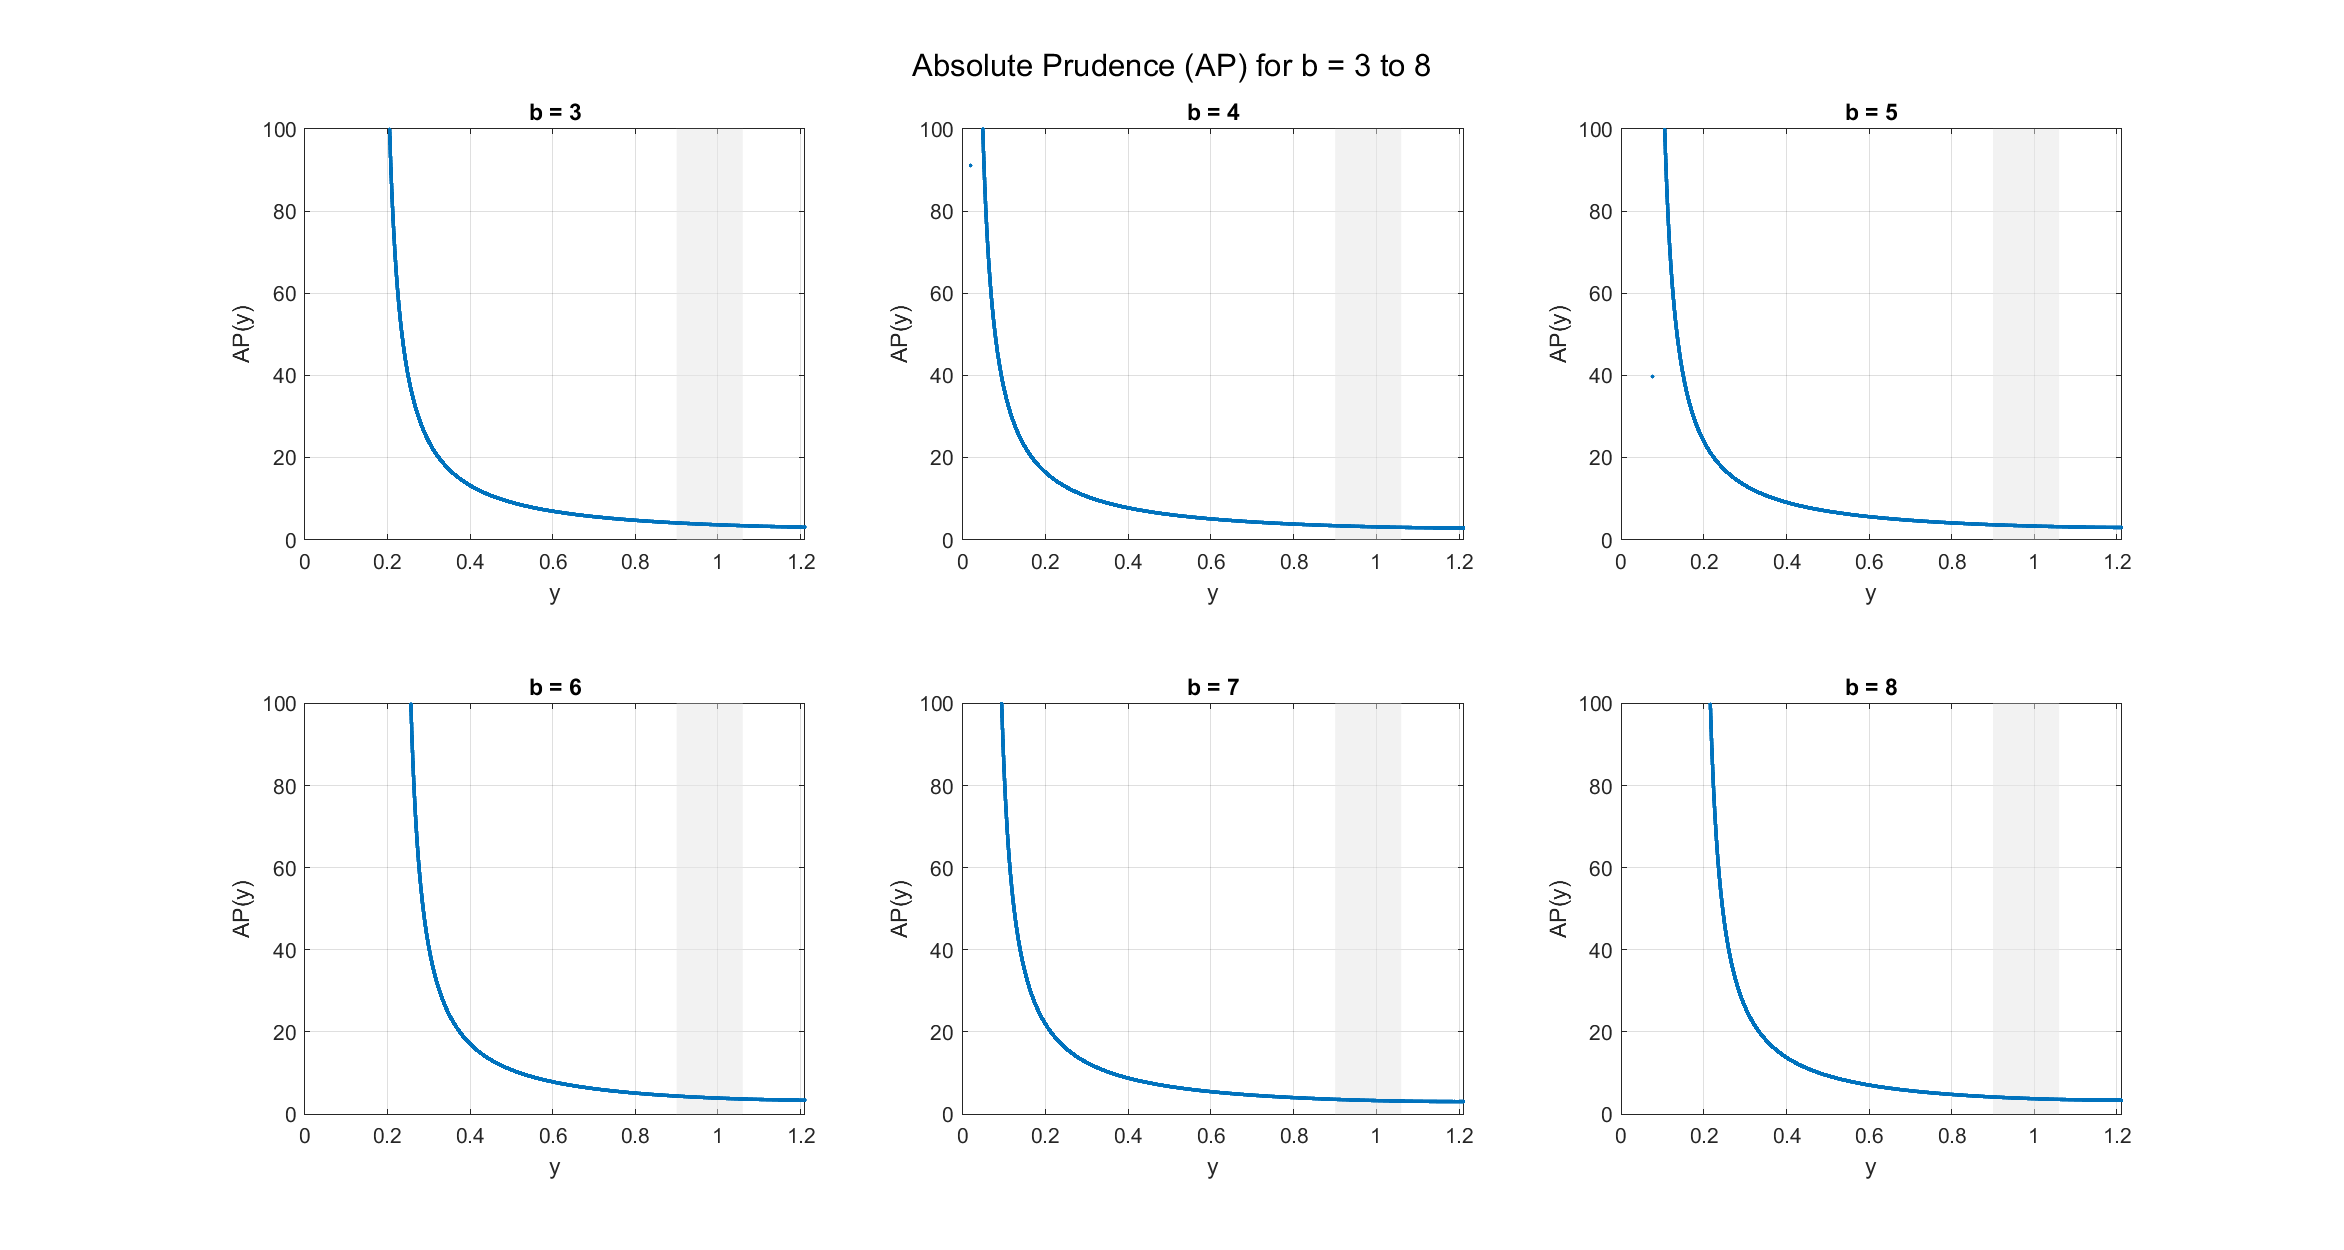
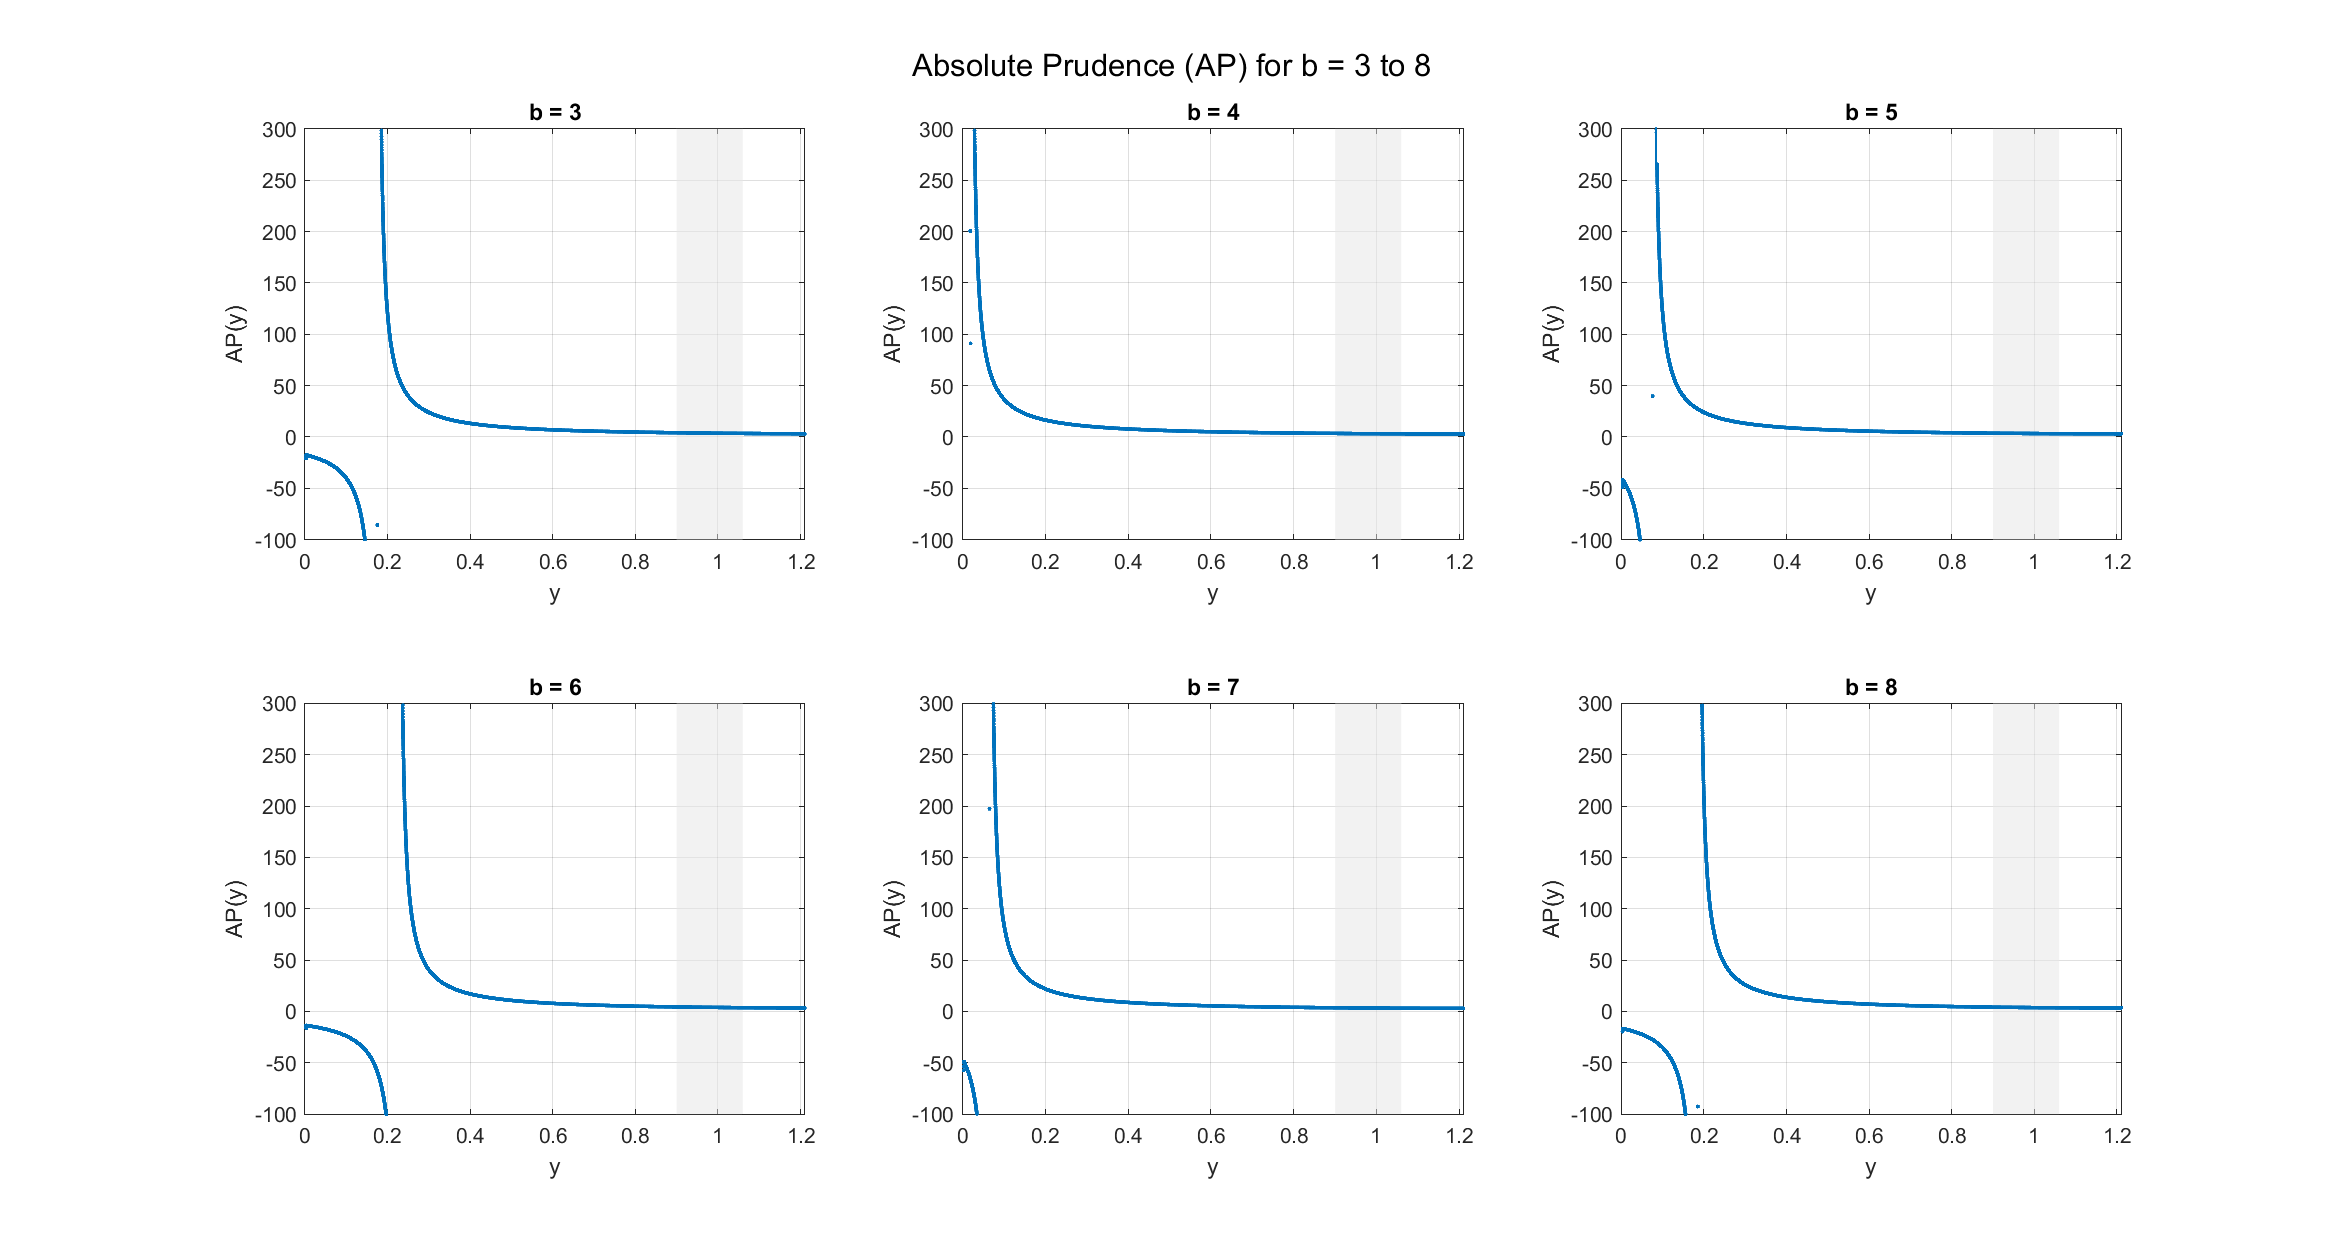
Adjust the y-axis range of the plot

diff --git a/04  風險指標（Risk Aversion and Prudence）/Procedure__Risk_Aversion_and_Prudence.m b/04  風險指標（Risk Aversion and Prudence）/Procedure__Risk_Aversion_and_Prudence.m
@@ -1,4 +1,5 @@
 clear; clc
+
 Path_MainFolder = 'D:\Google\我的雲端硬碟\學術｜研究與論文\論文著作\CDI Method';
 
 
@@ -177,7 +178,7 @@ clear filename
 
 %% Absolute Risk Aversion (ARA)
 
-y_min = 0;
+y_min = -100;
 y_max = 300;
 
 figure;
@@ -209,8 +210,8 @@ clear filename
 
 %% Relative Risk Aversion (RRA)
 
-y_min = 0;
-y_max = 10;
+y_min = -3;
+y_max = 12;
 
 figure;
 for idx = 1:6
@@ -241,8 +242,8 @@ clear filename
 
 %% Absolute Prudence (AP)
 
-y_min = 0;
-y_max = 100;
+y_min = -100;
+y_max = 300;
 
 figure;
 for idx = 1:6
@@ -273,8 +274,8 @@ clear filename
 
 %% Relative Prudence (RP)
 
-y_min = 0;
-y_max = 10;
+y_min = -3;
+y_max = 12;
 
 figure;
 for idx = 1:6
